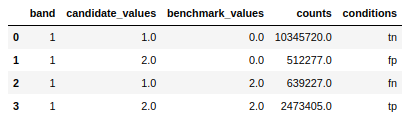
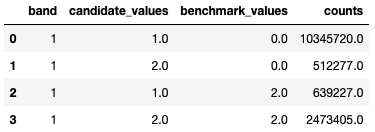
- Now copying crosstab_df to avoid adding conditions column - Change references in readme.

diff --git a/src/gval/comparison/compute_categorical_metrics.py b/src/gval/comparison/compute_categorical_metrics.py
@@ -102,6 +102,9 @@ def _compute_categorical_metrics(
 
     # if (positive_categories is not None):
 
+    # make copy to avoid modifying original
+    crosstab_df = crosstab_df.copy()
+
     positive_categories, negative_categories = _handle_positive_negative_categories(
         crosstab_df, positive_categories, negative_categories
     )

diff --git a/README.MD b/README.MD
@@ -41,8 +41,8 @@ To use this package:
 
 # Using GVAL
 
-An example of running the entire process with one command using minimal
-arguments is demonstrated below:
+An example of running the entire process for two-class categorical
+rasters with one function using minimal arguments is demonstrated below:
 
 ``` python
 import gval

diff --git a/docs/markdown/04_EXAMPLE.MD b/docs/markdown/04_EXAMPLE.MD
@@ -1,6 +1,6 @@
 # Using GVAL
 
-An example of running the entire process with one command using minimal arguments is demonstrated below:
+An example of running the entire process for two-class categorical rasters with one function using minimal arguments is demonstrated below:
 
 ```python
 import gval
